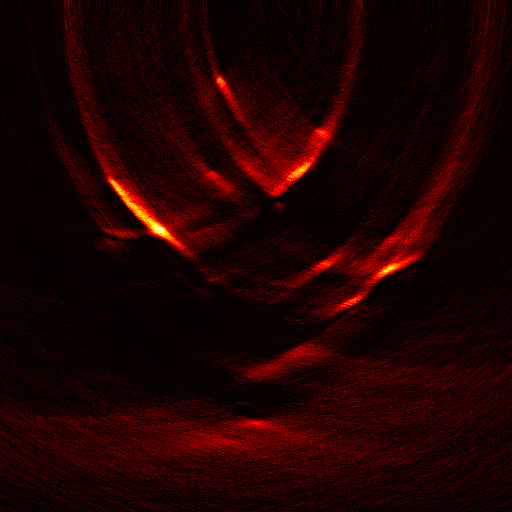
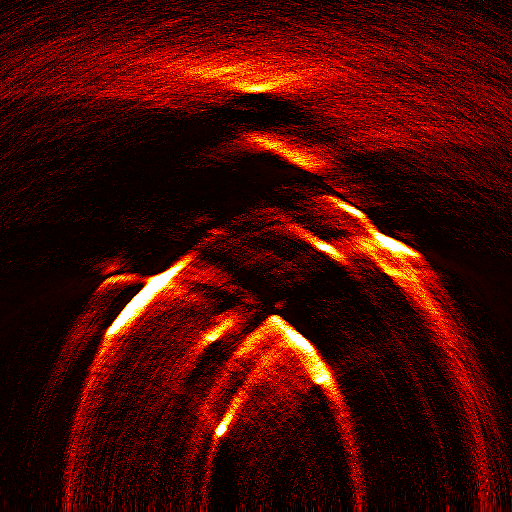
Add clean reconstruction galleries exported from MAT outputs.
Replace figure screenshots with hot-colormap maps and a comparison montage on Overview and Reconstruction pages.

diff --git a/index.html b/index.html
@@ -118,26 +118,30 @@
 
     <h2>Sample reconstructions</h2>
     <p class="muted">Linear-array reconstructions of the Example1 vessel phantom — see the <a href="reconstruction.html">Reconstruction</a> page for the full set.</p>
+    <figure class="pipeline-figure">
+      <img src="assets/recon/comparison_montage.png" alt="Comparison of phantom, TR, UBP, DMAS, DAS, and FBP reconstructions" width="932" height="652" loading="lazy" />
+    </figure>
+    <p class="figure-caption">Same acquisition, different algorithms (linear array).</p>
     <div class="gallery">
       <figure>
         <img src="assets/recon/phantom_example1.png" alt="Example1 vessel phantom" width="512" height="512" loading="lazy" />
         <figcaption>Phantom</figcaption>
       </figure>
       <figure>
-        <img src="assets/recon/dmas.png" alt="DMAS reconstruction" width="512" height="512" loading="lazy" />
-        <figcaption>DMAS</figcaption>
-      </figure>
-      <figure>
         <img src="assets/recon/tr.png" alt="Time-reversal reconstruction" width="512" height="512" loading="lazy" />
         <figcaption>TR</figcaption>
       </figure>
       <figure>
-        <img src="assets/recon/ubp.png" alt="UBP reconstruction" width="512" height="512" loading="lazy" />
-        <figcaption>UBP</figcaption>
+        <img src="assets/recon/dmas.png" alt="DMAS reconstruction" width="512" height="512" loading="lazy" />
+        <figcaption>DMAS</figcaption>
       </figure>
       <figure>
-        <img src="assets/recon/ds_dmas.png" alt="DS-DMAS reconstruction" width="512" height="512" loading="lazy" />
-        <figcaption>DS-DMAS</figcaption>
+        <img src="assets/recon/das.png" alt="DAS reconstruction" width="512" height="512" loading="lazy" />
+        <figcaption>DAS</figcaption>
+      </figure>
+      <figure>
+        <img src="assets/recon/ubp.png" alt="UBP reconstruction" width="512" height="512" loading="lazy" />
+        <figcaption>UBP</figcaption>
       </figure>
       <figure>
         <img src="assets/recon/fbp.png" alt="FBP reconstruction" width="512" height="512" loading="lazy" />

diff --git a/reconstruction.html b/reconstruction.html
@@ -57,6 +57,10 @@
 
     <h2>Example reconstructions</h2>
     <p class="muted">Same linear-array acquisition of <code>data/Example1.bmp</code>, reconstructed with different algorithms.</p>
+    <figure class="pipeline-figure">
+      <img src="assets/recon/comparison_montage.png" alt="Side-by-side reconstruction comparison montage" width="932" height="652" loading="lazy" />
+    </figure>
+    <p class="figure-caption">Overview: phantom vs TR, UBP, DMAS, DAS, FBP.</p>
     <div class="gallery gallery-4">
       <figure>
         <img src="assets/recon/phantom_example1.png" alt="Example1 vessel phantom" width="512" height="512" loading="lazy" />

diff --git a/_gen_docs.py b/_gen_docs.py
@@ -151,26 +151,30 @@ PAGES["index.html"] = (
 
     <h2>Sample reconstructions</h2>
     <p class="muted">Linear-array reconstructions of the Example1 vessel phantom — see the <a href="reconstruction.html">Reconstruction</a> page for the full set.</p>
+    <figure class="pipeline-figure">
+      <img src="assets/recon/comparison_montage.png" alt="Comparison of phantom, TR, UBP, DMAS, DAS, and FBP reconstructions" width="932" height="652" loading="lazy" />
+    </figure>
+    <p class="figure-caption">Same acquisition, different algorithms (linear array).</p>
     <div class="gallery">
       <figure>
         <img src="assets/recon/phantom_example1.png" alt="Example1 vessel phantom" width="512" height="512" loading="lazy" />
         <figcaption>Phantom</figcaption>
       </figure>
       <figure>
-        <img src="assets/recon/dmas.png" alt="DMAS reconstruction" width="512" height="512" loading="lazy" />
-        <figcaption>DMAS</figcaption>
-      </figure>
-      <figure>
         <img src="assets/recon/tr.png" alt="Time-reversal reconstruction" width="512" height="512" loading="lazy" />
         <figcaption>TR</figcaption>
       </figure>
       <figure>
-        <img src="assets/recon/ubp.png" alt="UBP reconstruction" width="512" height="512" loading="lazy" />
-        <figcaption>UBP</figcaption>
+        <img src="assets/recon/dmas.png" alt="DMAS reconstruction" width="512" height="512" loading="lazy" />
+        <figcaption>DMAS</figcaption>
       </figure>
       <figure>
-        <img src="assets/recon/ds_dmas.png" alt="DS-DMAS reconstruction" width="512" height="512" loading="lazy" />
-        <figcaption>DS-DMAS</figcaption>
+        <img src="assets/recon/das.png" alt="DAS reconstruction" width="512" height="512" loading="lazy" />
+        <figcaption>DAS</figcaption>
+      </figure>
+      <figure>
+        <img src="assets/recon/ubp.png" alt="UBP reconstruction" width="512" height="512" loading="lazy" />
+        <figcaption>UBP</figcaption>
       </figure>
       <figure>
         <img src="assets/recon/fbp.png" alt="FBP reconstruction" width="512" height="512" loading="lazy" />
@@ -429,6 +433,10 @@ PAGES["reconstruction.html"] = (
 
     <h2>Example reconstructions</h2>
     <p class="muted">Same linear-array acquisition of <code>data/Example1.bmp</code>, reconstructed with different algorithms.</p>
+    <figure class="pipeline-figure">
+      <img src="assets/recon/comparison_montage.png" alt="Side-by-side reconstruction comparison montage" width="932" height="652" loading="lazy" />
+    </figure>
+    <p class="figure-caption">Overview: phantom vs TR, UBP, DMAS, DAS, FBP.</p>
     <div class="gallery gallery-4">
       <figure>
         <img src="assets/recon/phantom_example1.png" alt="Example1 vessel phantom" width="512" height="512" loading="lazy" />
